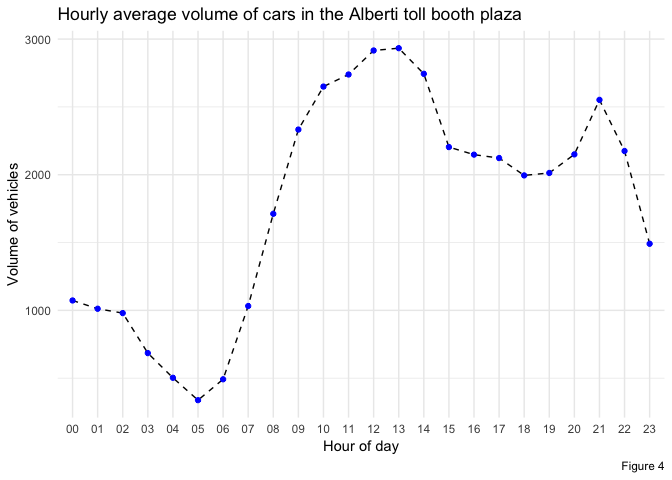
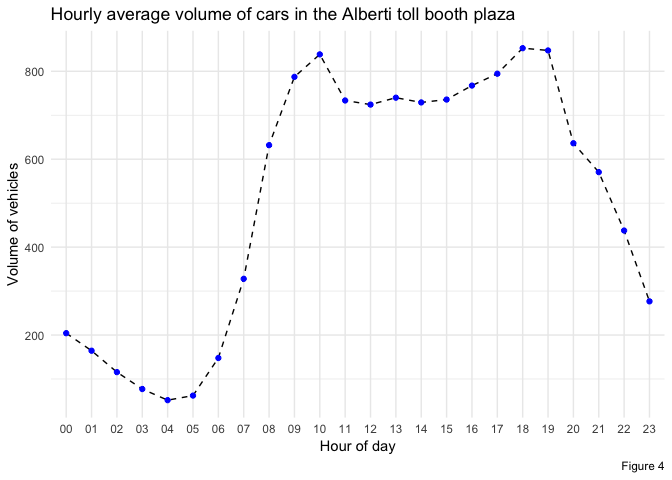
Introduced definition of lambda, mu, and rho for the Alberti toll booth.

diff --git a/time-estimation/README.md b/time-estimation/README.md
@@ -4,7 +4,6 @@ Julián Ailán
 
 -   [Objective](#objective)
 -   [Joining the traffic dataset with the oil dataset](#joining-the-traffic-dataset-with-the-oil-dataset)
--   [Analysis of oil price behavior](#analysis-of-oil-price-behavior)
 -   [Time spent waiting on queues estimation](#time-spent-waiting-on-queues-estimation)
 
 ### Objective
@@ -16,20 +15,6 @@ This project consists on estimating time-spent by drivers on AUSA toll booths in
 The `traffic.csv` dataset previously analized [here](https://github.com/tulians/traffic/tree/master/descriptive) has a file size of approximately 562MB, while the `oil_prices.csv` dataset is only 11.2KB. We'll be merging both files in an inner join fashion, using the year and month columns via the [`merge()`](https://www.rdocumentation.org/packages/base/versions/3.6.0/topics/merge) function. As a result of this merge each existing row in `traffic.csv` will be repeated 4 times, one per each oil type, thus taking the final, merged, dataset to an approximate size of 2.2GB.
 
 R requires that variables are stored in RAM in its entirety, so managing a dataframe this big could be imposible for some machines if no alternate processing is performed. For this reason is that the [`ff`](https://cran.r-project.org/web/packages/ff/index.html) package will be used.
-
-### Analysis of oil price behavior
-
-The oil prices dataset consists of monthly prices of different types of oil: super, premium, gasoil, and euro. The four of them experienced a steady increase since 2008 until 2018, which is illustrated in Figure 1.
-
-![](README_files/figure-markdown_github/pricethroughtime-1.png)
-
-Building on top of the previous analysis of traffic patterns performed [here](https://github.com/tulians/traffic/blob/master/descriptive/README.md), it would be intersting to analyze whether there was a correlation between the rate at which the number of vehicles passing through toll booths [started to grow month-over-month](https://github.com/tulians/traffic/blob/master/descriptive/README_files/figure-markdown_github/trend-1.png), and the month-over-month (M-o-M) increase in oil prices depicted in Figure 1. As seen in Figure 2 (condidering only information from January 2014 onwards, after the [unexpected growth](https://github.com/tulians/traffic/tree/master/descriptive#increment-in-traffic)) there is barely a linear relation between these two differences, which is represented by the Pearson correlation coefficient of 0.0684658. This correlation, even though it's not strong, it's positive, which implies that an increase in oil prices does not necessarily result in a decrease in traffic volume, but rather the opposite in this case.
-
-![](README_files/figure-markdown_github/correlationgraph-1.png)
-
-A more interesting approach in the search for a relation between vehicle volume and oil price would be to look at the M-o-M differences of each time series. Figure 3 shows the behavior through time of the difference of each of the variables, which was computed over the normalized series. Again, computing the correlation between both differences yields a positive number, -0.1519104, which shows non-conclusive evidence that an increase in oil price could impact the volume of vehicles passing through toll booths (at least not in a month by month basis).
-
-![](README_files/figure-markdown_github/differencesgraph-1.png)
 
 ### Time spent waiting on queues estimation
 
@@ -67,58 +52,54 @@ Up to now we've been working with the dataset without validating whether all the
 
 #### Estimation of traffic intensity per toll booth
 
-In the previous section we discussed the need of computing the arrival rate ![\\lambda](https://latex.codecogs.com/png.latex?%5Clambda "\lambda") and service rate ![\\mu](https://latex.codecogs.com/png.latex?%5Cmu "\mu") in order to know the traffic intensity ![\\rho](https://latex.codecogs.com/png.latex?%5Crho "\rho"). The former can be derived directly from the information provided by the dataset, given that each of its records indicates the amount of vehicles that arrived and went through the toll booths per hour. However, in order to estimate ![\\mu](https://latex.codecogs.com/png.latex?%5Cmu "\mu") assumptions have to be raised, or a field measurement has to be performed. Both approaches will be performed during this analysis.
+In the previous section we discussed the need of computing the arrival rate ![\\lambda](https://latex.codecogs.com/png.latex?%5Clambda "\lambda") and service rate ![\\mu](https://latex.codecogs.com/png.latex?%5Cmu "\mu") in order to know the traffic intensity ![\\rho](https://latex.codecogs.com/png.latex?%5Crho "\rho"). The former can be derived directly from the information provided by the dataset, given that each of its records indicates the amount of vehicles that arrived and went through the toll booths per hour. In order to estimate ![\\mu](https://latex.codecogs.com/png.latex?%5Cmu "\mu") a sample toll booth service time was taken from the *Alberti* toll booth plaza. Additionally, only *cars* volume will be taken into account, as sample consists only on cars measurements.
 
-##### Traffic intensity
+The next three section will consist on a detailed explanation of each of the three variables of ![\\rho = \\frac{\\lambda}{S\\mu}](https://latex.codecogs.com/png.latex?%5Crho%20%3D%20%5Cfrac%7B%5Clambda%7D%7BS%5Cmu%7D "\rho = \frac{\lambda}{S\mu}"), with the objective of estimating the utilization ![\\rho](https://latex.codecogs.com/png.latex?%5Crho "\rho") of the *Alberti* at each hour of the day.
 
-Going back to what was mentioned at the beginning of this section, traffic intensity was defined as the ratio between the arrival rate ![\\lambda](https://latex.codecogs.com/png.latex?%5Clambda "\lambda") and the service rate ![\\mu](https://latex.codecogs.com/png.latex?%5Cmu "\mu"), so that ![\\lambda &lt; \\mu](https://latex.codecogs.com/png.latex?%5Clambda%20%3C%20%5Cmu "\lambda < \mu"). That condition ensures the system is stable. However, it only accounts for the case of a single server, while in this case we have ![S](https://latex.codecogs.com/png.latex?S "S") toll booths per plaza. This yields a system stability condition of ![\\lambda &lt; S\\mu](https://latex.codecogs.com/png.latex?%5Clambda%20%3C%20S%5Cmu "\lambda < S\mu"), thus defining ![\\rho](https://latex.codecogs.com/png.latex?%5Crho "\rho") as ![\\rho = \\frac{\\lambda}{S\\mu}](https://latex.codecogs.com/png.latex?%5Crho%20%3D%20%5Cfrac%7B%5Clambda%7D%7BS%5Cmu%7D "\rho = \frac{\lambda}{S\mu}"). Following the third assumption in the assumptions section, as all toll booths are considered equal, we can express the total capacity of the system by multipying an individual toll booth capacity by the amount of toll booths in a toll booth plaza.
+##### Arrivals
 
-The next two subsections will be focused on the *Alberti* toll booth plaza given that it's a toll booth from which we count with real information about service time ![\\mu](https://latex.codecogs.com/png.latex?%5Cmu "\mu"). The amount of vehicles that arrive on each hour to the toll booth, as shown in Figure 4, is computed considering recent information from year 2019. Additionally, only the *cars* volume will be considered for the mentioned sections, as the analysis can be then extended to the least frequent vehicle types.
+At the moment of writing the most recent information the dataset holds is from January 2019. The rationale for using the most recent information to define the arrival rate is that the volume of vehicles going through toll booths steadily increased through the years, so using information from prior years can lower the average arrival volumes. Figure 4 shows the average amount of vehicles that arrive to the *Alberti* toll booth per hour.
 
 ![](README_files/figure-markdown_github/albertivehiclesperhour-1.png)
 
-##### Assumption of 90% utilization
+The previous figure presents two peaks which correspond to the timeframes of 9am to 11am and 6pm to 8pm. It would be expected that the utilization of the system, length of the queues, and the time spent on them increases when approaching a peak hour. Figure 5 ilustrates the breakdown of the previously shown volume per payment method, which clearly indicates the peaks are mostly driven by users leaning towards the use of the automatic payment method.
 
-An initial approach to the estimation of time-spent on queues would be to assume that toll booths are operating at 90% of their capacity. It actually makes sense to think that toll booth plazas were designed to be a stable system, due to the fact that even though long queues happen, and frequently during peak hours, they are eventually served up to the point that there's no queue left. In this scenario, each toll booth at the *Alberti* toll booth plaza is able to serve up to 398.0833333 vehicles in an hour. This figure comes from computing ![\\mu = \\frac{\\lambda}{S\\rho}](https://latex.codecogs.com/png.latex?%5Cmu%20%3D%20%5Cfrac%7B%5Clambda%7D%7BS%5Crho%7D "\mu = \frac{\lambda}{S\rho}") where ![\\lambda](https://latex.codecogs.com/png.latex?%5Clambda "\lambda") is equal to the 1791.38 vehicles per hour, the average of the amount of vehicles per hour shown in Figure 4, the number of servers ![S](https://latex.codecogs.com/png.latex?S "S") is 5, and the utilization/traffic intensity ![\\rho](https://latex.codecogs.com/png.latex?%5Crho "\rho") is ![90\\%](https://latex.codecogs.com/png.latex?90%5C%25 "90\%"). This result means that in order for the system (toll booth plaza) to be operating at 90% of its capacity, each server (toll booth) needs to service at least 398.08 vehicles per hour. Summing up each server contribution, 1990.42 vehicles can be serviced in an hour by this system. Servicing 1990.42 vehicles in an hour means that on average 33.17 vehicles are serviced per minute in a toll booth plaza, regardless of the toll booth payment method.
+![](README_files/figure-markdown_github/arrivalrate-1.png)
 
-Although this number may seem high, it's important to mention that it includes the impact from automatic toll booths, which can service more vehicles that manual toll booths. For the concrete case of the *Alberti* toll booth plaza, automatic payments constitute 36.14% of the payments volume. The specific percentages for each our are detailed in Figure 5.
+##### Service time
 
-![](README_files/figure-markdown_github/utilizationbreakdown-1.png)
+The *Alberti* toll booth plaza has a total of 5 toll booths, 2 of them for accessing the *25 de Mayo* highway, and other 3 for leaving it. A sample of 70 observations of vehicles being serviced on this toll booth was taken on a Saturday, which yielded the distribution presenteed in Figure 6.
 
-If we were to break down the service rate per payment method, we should expect to see faster service time for automatic toll booths, that could account for a high percentage of the almost 33.17 vehicles served per minute. Performing such break down yields NaN vehicles services by minute in manual payment toll booths, and 12.16 vehicles services by minute in automatic payment toll booths. Even though the service rate for manual toll booths is higher than that of automatic toll booths, it must be taken into account that there are more toll booths with manual payment methods that booths with automatic ones. For the particular case of the *Alberti* toll booth plaza, an approximate of 5 toll booths are automatic, from a total of 5. This shows that even with just 100% of the toll booths being automatic in this plaza, you can service 36.14% of the incoming traffic, as it was mentioned previously.
+![](README_files/figure-markdown_github/attentionsample-1.png)
 
-###### Characterization of the M/M/S system
+The density function for the automatic payment method is more narrow than its manual counter part given that the latter could be impacted by many factors like the driver not having exact change prepared to pay, or the toll booth employee taking more or less time to service different clients. The average service time for the automatic payment method is 6.1389744 seconds, while the average service time for manual payments is 24.0293548 seconds.
 
-Previously a traffic intensity ![\\rho](https://latex.codecogs.com/png.latex?%5Crho "\rho") of ![90\\%](https://latex.codecogs.com/png.latex?90%5C%25 "90\%") was assumed, and by doing so a realistic service rate NaN vehicles per minute in manual toll booths and 12.16 vehicles per minute in automatic toll booths was obtained.
+One characteristic of *Alberti*'s toll booths is they are both automatic and manual, so depending on the payment method of choosing of the driver, they can pay with cash or with an electronic tag. In summary, Figure 5 tells us there are moments of the day where automatic payments have more impact, while Figure 6 illustrates the densities of each payment method, and how service time differs between them. Such difference has to be taken into account when computing the service rate ![\\mu](https://latex.codecogs.com/png.latex?%5Cmu "\mu") for the estimation of the traffic intensity ![\\rho](https://latex.codecogs.com/png.latex?%5Crho "\rho").
+
+For this reason the service rate has to be expressed as a weighted sum which is function of the mean service times and its relative hourly weight. Such relation can be expressed as ![\\mu = \\frac{1}{\\alpha\_it\_a + \\beta\_it\_m}](https://latex.codecogs.com/png.latex?%5Cmu%20%3D%20%5Cfrac%7B1%7D%7B%5Calpha_it_a%20%2B%20%5Cbeta_it_m%7D "\mu = \frac{1}{\alpha_it_a + \beta_it_m}") where ![\\alpha\_i](https://latex.codecogs.com/png.latex?%5Calpha_i "\alpha_i") indicates the percentage of vehicles paying with the automatic payment method at the hour ![i](https://latex.codecogs.com/png.latex?i "i"), and ![\\beta\_i](https://latex.codecogs.com/png.latex?%5Cbeta_i "\beta_i") indicates the percentage of vehicles paying manually at the hour ![i](https://latex.codecogs.com/png.latex?i "i"), or ![\\beta = 1 - \\alpha](https://latex.codecogs.com/png.latex?%5Cbeta%20%3D%201%20-%20%5Calpha "\beta = 1 - \alpha"). The resulting hourly values of ![\\mu](https://latex.codecogs.com/png.latex?%5Cmu "\mu") are presented in Figure 7
+
+![](README_files/figure-markdown_github/graph-1.png)
+
+##### Traffic intensity
+
+Traffic intensity is defined as the ratio between the arrival rate ![\\lambda](https://latex.codecogs.com/png.latex?%5Clambda "\lambda") and the service rate ![\\mu](https://latex.codecogs.com/png.latex?%5Cmu "\mu"), so that ![\\lambda &lt; \\mu](https://latex.codecogs.com/png.latex?%5Clambda%20%3C%20%5Cmu "\lambda < \mu"). That condition ensures the system is stable. However, it only accounts for the case of a single server, while in this case we have ![S](https://latex.codecogs.com/png.latex?S "S") toll booths per plaza. This yields a system stability condition of ![\\lambda &lt; S\\mu](https://latex.codecogs.com/png.latex?%5Clambda%20%3C%20S%5Cmu "\lambda < S\mu"), thus defining ![\\rho](https://latex.codecogs.com/png.latex?%5Crho "\rho") as ![\\rho = \\frac{\\lambda}{S\\mu}](https://latex.codecogs.com/png.latex?%5Crho%20%3D%20%5Cfrac%7B%5Clambda%7D%7BS%5Cmu%7D "\rho = \frac{\lambda}{S\mu}"). Following the third assumption in the assumptions section, as all toll booths are considered equal, we can express the total capacity of the system by multipying an individual toll booth capacity by the amount of toll booths in a toll booth plaza.
+
+Given the definitions of ![\\lambda](https://latex.codecogs.com/png.latex?%5Clambda "\lambda") and ![\\mu](https://latex.codecogs.com/png.latex?%5Cmu "\mu") in the prior two sections, the utilization of the *Alberti* toll booth plaza can be described by Figure 8, which presents the percentage of utilization of the 5 toll booths in such plaza. The moments where the toll booth plaza is mostly used are peak hours, with 10am having a 73.5% utilization, and 6pm with 72% utilization.
+
+![](README_files/figure-markdown_github/realsample-1.png)
+
+##### Characterization of the M/M/S system
 
 The system will be modeled as an M/M/S queuing model, where the first *M* stands for a Poisson distributed arrival pattern of vehicles. From here is that we derive ![\\lambda](https://latex.codecogs.com/png.latex?%5Clambda "\lambda"), the mean of such distribution. The second *M* stands for an exponential distribution of the service rate ![\\mu](https://latex.codecogs.com/png.latex?%5Cmu "\mu"). Lastly, S stands for the number of servers, in this case toll booths per toll booth plaza, with a First In - First Out discipline. Summing everything together, the system will be considered stable if ![\\lambda &lt; S\\mu](https://latex.codecogs.com/png.latex?%5Clambda%20%3C%20S%5Cmu "\lambda < S\mu"), as previously mentioned.
 
 ###### Probability of N vehicles arriving at a given time
 
-Traffic intensity ![\\rho](https://latex.codecogs.com/png.latex?%5Crho "\rho") can be used to determine the probability of having no vehicles queuing in the system at a given moment of time, and is written as ![P\_0 = \\frac{1}{\\sum\_{n = 0}^{N - 1}\\frac{\\rho^n}{n!}+\\frac{\\rho^N}{N!(1-\\frac{\\rho}{N})}}](https://latex.codecogs.com/png.latex?P_0%20%3D%20%5Cfrac%7B1%7D%7B%5Csum_%7Bn%20%3D%200%7D%5E%7BN%20-%201%7D%5Cfrac%7B%5Crho%5En%7D%7Bn%21%7D%2B%5Cfrac%7B%5Crho%5EN%7D%7BN%21%281-%5Cfrac%7B%5Crho%7D%7BN%7D%29%7D%7D "P_0 = \frac{1}{\sum_{n = 0}^{N - 1}\frac{\rho^n}{n!}+\frac{\rho^N}{N!(1-\frac{\rho}{N})}}"), where ![N](https://latex.codecogs.com/png.latex?N "N") is the number of toll booths ![S](https://latex.codecogs.com/png.latex?S "S"). Given this definition of ![P\_0](https://latex.codecogs.com/png.latex?P_0 "P_0"), the analogoues ![P\_n](https://latex.codecogs.com/png.latex?P_n "P_n"), which would be the probability of having ![n](https://latex.codecogs.com/png.latex?n "n") units in the system, is defined as ![P\_n = \\left ( \\frac{\\rho}{n} \\right ) P\_{n-1}](https://latex.codecogs.com/png.latex?P_n%20%3D%20%5Cleft%20%28%20%5Cfrac%7B%5Crho%7D%7Bn%7D%20%5Cright%20%29%20P_%7Bn-1%7D "P_n = \left ( \frac{\rho}{n} \right ) P_{n-1}"). With our assumption of ![90\\%](https://latex.codecogs.com/png.latex?90%5C%25 "90\%") utilization the probability of having no vehicles in the system is 40.65, while the probability of having ![S](https://latex.codecogs.com/png.latex?S "S") vehicles arriving at the ![S](https://latex.codecogs.com/png.latex?S "S") toll booths at the exact same time to be served is 36.59.
+Traffic intensity ![\\rho](https://latex.codecogs.com/png.latex?%5Crho "\rho") can be used to determine the probability of having no vehicles queuing in the system at a given moment of time, and is written as ![P\_0 = \\frac{1}{\\sum\_{n = 0}^{S - 1}\\frac{\\rho^n}{n!}+\\frac{\\rho^S}{S!(1-\\frac{\\rho}{S})}}](https://latex.codecogs.com/png.latex?P_0%20%3D%20%5Cfrac%7B1%7D%7B%5Csum_%7Bn%20%3D%200%7D%5E%7BS%20-%201%7D%5Cfrac%7B%5Crho%5En%7D%7Bn%21%7D%2B%5Cfrac%7B%5Crho%5ES%7D%7BS%21%281-%5Cfrac%7B%5Crho%7D%7BS%7D%29%7D%7D "P_0 = \frac{1}{\sum_{n = 0}^{S - 1}\frac{\rho^n}{n!}+\frac{\rho^S}{S!(1-\frac{\rho}{S})}}"), where ![S](https://latex.codecogs.com/png.latex?S "S") is the number of toll booths. Given this definition of ![P\_0](https://latex.codecogs.com/png.latex?P_0 "P_0"), the analogoues ![P\_n](https://latex.codecogs.com/png.latex?P_n "P_n"), which would be the probability of having ![n](https://latex.codecogs.com/png.latex?n "n") units in the system, is defined as ![P\_n = \\left ( \\frac{\\rho}{n} \\right ) P\_{n-1}](https://latex.codecogs.com/png.latex?P_n%20%3D%20%5Cleft%20%28%20%5Cfrac%7B%5Crho%7D%7Bn%7D%20%5Cright%20%29%20P_%7Bn-1%7D "P_n = \left ( \frac{\rho}{n} \right ) P_{n-1}"). With our assumption of ![90\\%](https://latex.codecogs.com/png.latex?90%5C%25 "90\%") utilization the probability of having no vehicles in the system is 12.6, 12.6, 12.6, 12.6, 12.6, 12.6, 12.6, 12.6, 12.6, 12.6, 12.6, 12.6, 12.6, 12.6, 12.6, 12.6, 12.6, 12.6, 12.6, 12.6, 12.6, 12.6, 12.6, 12.6, while the probability of having ![S](https://latex.codecogs.com/png.latex?S "S") vehicles arriving at the ![S](https://latex.codecogs.com/png.latex?S "S") toll booths at the exact same time to be served is 2.4, 1.93, 1.39, 0.94, 0.65, 0.78, 1.85, 3.86, 6.94, 8.63, 9.26, 8.33, 8.33, 8.56, 8.51, 8.49, 8.77, 8.84, 9.07, 8.94, 6.98, 6.38, 5.08, 3.27.
 
 ###### Average number of units in queues
 
-Using the probability of having an empty queue ![P\_0](https://latex.codecogs.com/png.latex?P_0 "P_0") we can derive the average queue length. This metric will then be used to estimate the average waiting time in queues. As this are average times, they will take into account those times where there are no vehicles queuing, and times where there are long queues. For the case of ![S](https://latex.codecogs.com/png.latex?S "S") servers, the average queue length is defined as ![U\_q(N, \\rho) = P\_0\\frac{\\rho^{N+1}}{N!N}\\left \[ \\frac{1}{\\left (1 - \\frac{\\rho}{N} \\right )^2} \\right \]](https://latex.codecogs.com/png.latex?U_q%28N%2C%20%5Crho%29%20%3D%20P_0%5Cfrac%7B%5Crho%5E%7BN%2B1%7D%7D%7BN%21N%7D%5Cleft%20%5B%20%5Cfrac%7B1%7D%7B%5Cleft%20%281%20-%20%5Cfrac%7B%5Crho%7D%7BN%7D%20%5Cright%20%29%5E2%7D%20%5Cright%20%5D "U_q(N, \rho) = P_0\frac{\rho^{N+1}}{N!N}\left [ \frac{1}{\left (1 - \frac{\rho}{N} \right )^2} \right ]"), and has an approximate value of 5.355123910^{-4}. This value is actually very small, and could be rounded to ![0](https://latex.codecogs.com/png.latex?0 "0"), and can be interpreted as arriving vehicles not having to queue for going through a toll booth.
+Using the probability of having an empty queue ![P\_0](https://latex.codecogs.com/png.latex?P_0 "P_0") we can derive the average queue length. This metric will then be used to estimate the average waiting time in queues. As this are average times, they will take into account those times where there are no vehicles queuing, and times where there are long queues. For the case of ![S](https://latex.codecogs.com/png.latex?S "S") servers, the average queue length is defined as ![U\_q(S, \\rho) = P\_0\\frac{\\rho^{S+1}}{S!S}\\left \[ \\frac{1}{\\left (1 - \\frac{\\rho}{S} \\right )^2} \\right \]](https://latex.codecogs.com/png.latex?U_q%28S%2C%20%5Crho%29%20%3D%20P_0%5Cfrac%7B%5Crho%5E%7BS%2B1%7D%7D%7BS%21S%7D%5Cleft%20%5B%20%5Cfrac%7B1%7D%7B%5Cleft%20%281%20-%20%5Cfrac%7B%5Crho%7D%7BS%7D%20%5Cright%20%29%5E2%7D%20%5Cright%20%5D "U_q(S, \rho) = P_0\frac{\rho^{S+1}}{S!S}\left [ \frac{1}{\left (1 - \frac{\rho}{S} \right )^2} \right ]"), and has an approximate value of 1.077984310^{-8}, 2.914307910^{-9}, 4.038187110^{-10}, 3.730791610^{-11}, 4.108911310^{-12}, 1.171261910^{-11}, 2.205397910^{-9}, 1.977779610^{-7}, 7.397416510^{-6}, 2.913422610^{-5}, 4.54646810^{-5}, 2.324091310^{-5}, 2.329662910^{-5}, 2.75931810^{-5}, 2.668018210^{-5}, 2.622523710^{-5}, 3.215635710^{-5}, 3.394154410^{-5}, 4.002643910^{-5}, 3.640893910^{-5}, 7.690041510^{-6}, 4.363108210^{-6}, 1.062057210^{-6}, 7.133184510^{-8}. This value is actually very small, and could be rounded to ![0](https://latex.codecogs.com/png.latex?0 "0"), and can be interpreted as arriving vehicles not having to queue for going through a toll booth.
 
 ###### Average waiting time for units in queues
 
-The ![U\_q(N,\\rho)](https://latex.codecogs.com/png.latex?U_q%28N%2C%5Crho%29 "U_q(N,\rho)") metric can be reused to define the time spent waiting on queues as ![W\_q(N,\\rho,\\lambda) = U\_q/\\lambda](https://latex.codecogs.com/png.latex?W_q%28N%2C%5Crho%2C%5Clambda%29%20%3D%20U_q%2F%5Clambda "W_q(N,\rho,\lambda) = U_q/\lambda"). The units of this metric are hours, and for this particular case it's value is 2.98939310^{-7}, again very close to ![0](https://latex.codecogs.com/png.latex?0 "0"). This result goes in tandem with the results from the average number of vehicles per queue, as not having to queue behind other vehicles means not spending that time on queues.
-
-###### Partial conclusions for this analysis
-
-The two previous calculations of average number of units in queues and average waiting time in queues shown that on average vehicles shouldn't wait for going through toll booths. However, there are moments of time during the day (peak hours) were it's a fact that's not the case.
-
-    ## Warning in adf.test(y, alternative = "stationary"): p-value smaller than
-    ## printed p-value
-
-    ## 
-    ##  Augmented Dickey-Fuller Test
-    ## 
-    ## data:  y
-    ## Dickey-Fuller = -5.0916, Lag order = 4, p-value = 0.01
-    ## alternative hypothesis: stationary
-
-#### Estimation of service rate from empiric measurements
-
-In the previous section the value of ![\\mu](https://latex.codecogs.com/png.latex?%5Cmu "\mu") derived after assuming 90% utilization of the system. In order to know if the system is actually performing at such percentage or if it's actually a higher or lower one, empiric measurements in real toll booths were performed.
+The ![U\_q(S,\\rho)](https://latex.codecogs.com/png.latex?U_q%28S%2C%5Crho%29 "U_q(S,\rho)") metric can be reused to define the time spent waiting on queues as ![W\_q(S,\\rho,\\lambda) = U\_q/\\lambda](https://latex.codecogs.com/png.latex?W_q%28S%2C%5Crho%2C%5Clambda%29%20%3D%20U_q%2F%5Clambda "W_q(S,\rho,\lambda) = U_q/\lambda"). The units of this metric are hours, and for this particular case it's value is 5.278394210^{-11}, 1.773528610^{-11}, 3.491877310^{-12}, 4.835056110^{-13}, 7.926337810^{-14}, 1.882276710^{-13}, 1.492410710^{-11}, 6.031595610^{-10}, 1.170596810^{-8}, 3.700569610^{-8}, 5.422457210^{-8}, 3.168286310^{-8}, 3.216763110^{-8}, 3.729295810^{-8}, 3.659185210^{-8}, 3.564773910^{-8}, 4.189841410^{-8}, 4.272150210^{-8}, 4.69491710^{-8}, 4.296448810^{-8}, 1.208635610^{-8}, 7.646353910^{-9}, 2.426396510^{-9}, 2.578760610^{-10}, again very close to ![0](https://latex.codecogs.com/png.latex?0 "0"). This result goes in tandem with the results from the average number of vehicles per queue, as not having to queue behind other vehicles means not spending that time on queues.
